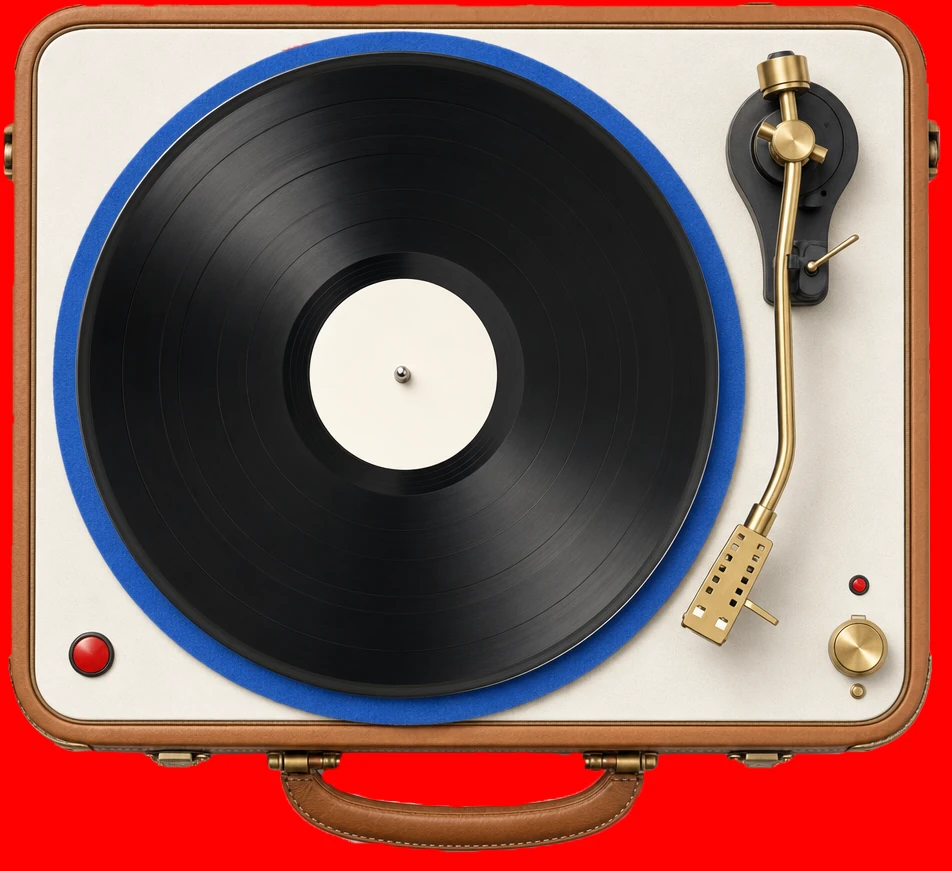
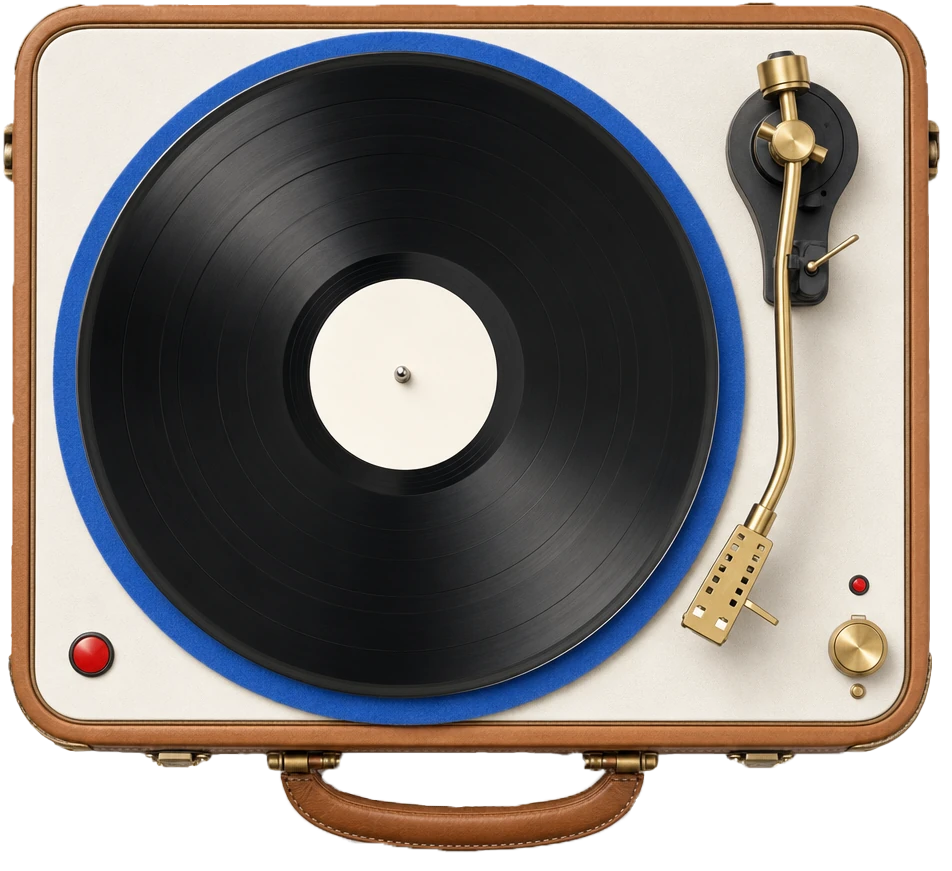
Fix mobile layout for watch roll, corkboard, laptop stickers, passport
- Watch roll: watches scale with the viewport on mobile so they sit inside
  the velvet slots instead of overflowing the cushions
- Corkboard: on mobile the framed landscape asset is too short for stacked
  cards, so the cork now fills a board that grows with them; the updated
  stamp moves inline below the cards
- Laptop stickers: smaller stickers and crest decal on mobile so they stay
  on the lid
- Passport: keep the spread landscape (two columns) on mobile and scale the
  crest, text and stamps down, instead of cropping it into a broken portrait
- Swap in the corrected vinyl player art (proper keying, no red background)
- Bold the essay title in the blog preamble

Claude-Session: https://claude.ai/code/session_019EimKuCz9ybaspSnoTAJrp

Changed region(s): [[0.0, 0.0, 1.0, 1.0]]

diff --git a/components/sections/corkboard-now.tsx b/components/sections/corkboard-now.tsx
@@ -114,9 +114,18 @@ export function CorkboardNow() {
   );
 
   // The ink stamp — knocked out on a cream chip so it reads clearly on cork.
+  const stampClass =
+    "pointer-events-none inline-block -rotate-6 rounded-md border-[2.5px] border-[#c40000] bg-[#f7efe0]/90 px-2.5 py-1 font-sans text-[10px] font-extrabold tracking-[0.2em] text-[#c40000] uppercase shadow-sm sm:text-[11px]";
+  // Absolute, tucked in the corner for the framed desktop board.
   const stamp = (
-    <p className="pointer-events-none absolute right-4 bottom-7 -rotate-6 rounded-md border-[2.5px] border-[#c40000] bg-[#f7efe0]/90 px-2.5 py-1 font-sans text-[10px] font-extrabold tracking-[0.2em] text-[#c40000] uppercase shadow-sm sm:right-6 sm:bottom-9 sm:text-[11px]">
+    <p className={`absolute right-4 bottom-7 sm:right-6 sm:bottom-9 ${stampClass}`}>
       updated {NOW.updated}
+    </p>
+  );
+  // Inline, sits after the cards on the flowing mobile board.
+  const stampInline = (
+    <p className="mt-6 flex justify-end">
+      <span className={stampClass}>updated {NOW.updated}</span>
     </p>
   );
 
@@ -128,20 +137,40 @@ export function CorkboardNow() {
     >
       <Reveal>
         {corkSrc ? (
-          // The framed cork asset sits directly on the section, no card behind.
-          <div className="relative mx-auto w-full max-w-4xl">
-            {/* eslint-disable-next-line @next/next/no-img-element */}
-            <img
-              src={corkSrc}
-              alt=""
-              loading="lazy"
-              className="pointer-events-none block w-full select-none"
-            />
-            {/* content area, inset to sit inside the wooden frame on the cork */}
-            <div className="absolute inset-x-[6%] inset-y-[8%] flex flex-col justify-center">
-              {cards}              {stamp}
+          <>
+            {/* Desktop: the framed cork asset sizes the board and the four
+                cards sit in a row inside its wooden frame. */}
+            <div className="relative mx-auto hidden w-full max-w-4xl lg:block">
+              {/* eslint-disable-next-line @next/next/no-img-element */}
+              <img
+                src={corkSrc}
+                alt=""
+                loading="lazy"
+                className="pointer-events-none block w-full select-none"
+              />
+              <div className="absolute inset-x-[6%] inset-y-[8%] flex flex-col justify-center">
+                {cards}
+                {stamp}
+              </div>
             </div>
-          </div>
+            {/* Mobile/tablet: the framed landscape asset is too short to hold
+                readable stacked cards, so the cork fills a board that grows
+                with the cards (object-cover crops the frame, texture stays). */}
+            <div className="relative mx-auto w-full max-w-xl overflow-hidden rounded-2xl shadow-(--shadow-lift) lg:hidden">
+              {/* eslint-disable-next-line @next/next/no-img-element */}
+              <img
+                src={corkSrc}
+                alt=""
+                aria-hidden
+                loading="lazy"
+                className="pointer-events-none absolute inset-0 size-full select-none object-cover"
+              />
+              <div className="relative px-5 py-8 sm:px-8 sm:py-10">
+                {cards}
+                {stampInline}
+              </div>
+            </div>
+          </>
         ) : (
           // CSS fallback: hand-built wooden frame + cork texture.
           <div className="relative mx-auto w-full max-w-4xl rounded-2xl bg-[linear-gradient(160deg,#7a5636,#583b20)] p-2.5 shadow-[0_18px_44px_rgb(0_0_0/0.28)] sm:p-3 dark:shadow-[0_18px_44px_rgb(0_0_0/0.6)]">

diff --git a/components/sections/passport.tsx b/components/sections/passport.tsx
@@ -58,10 +58,10 @@ function InkStamp({ stamp, index }: { stamp: Stamp; index: number }) {
     >
       {aiSrc ? (
         // eslint-disable-next-line @next/next/no-img-element
-        <img src={aiSrc} alt="" loading="lazy" className="size-24 object-contain sm:size-28" />
+        <img src={aiSrc} alt="" loading="lazy" className="size-14 object-contain sm:size-28" />
       ) : (
       <div
-        className={`grid size-24 place-items-center border-[3px] p-1 sm:size-28 ${
+        className={`grid size-14 place-items-center border-[3px] p-1 sm:size-28 ${
           circle ? "rounded-full" : "rounded-lg"
         }`}
         style={{ borderColor: ink, color: ink }}
@@ -101,7 +101,7 @@ function WaxSeal() {
       whileHover={reduce ? undefined : { scale: 0.95 }}
       transition={springs.bouncy}
       style={{ rotate: -12 }}
-      className="relative grid size-24 place-items-center sm:size-28"
+      className="relative grid size-16 place-items-center sm:size-28"
       role="img"
       aria-label="The Yawe wax seal, gold, with an SY monogram"
     >
@@ -210,7 +210,7 @@ export function Passport() {
             spreadSrc ? "" : "bg-night p-2.5 pb-4 sm:p-3 sm:pb-5"
           }`}
         >
-          <div className={`grid overflow-hidden rounded-[1.1rem] sm:grid-cols-2 ${spreadSrc ? "relative" : ""}`}>
+          <div className={`grid grid-cols-2 overflow-hidden rounded-[1.1rem] ${spreadSrc ? "relative" : ""}`}>
             {spreadSrc && (
               // eslint-disable-next-line @next/next/no-img-element
               <img
@@ -222,35 +222,35 @@ export function Passport() {
             )}
             {/* left page: the crest in gold foil */}
             <div
-              className="relative flex flex-col items-center justify-center gap-5 px-6 py-12"
+              className="relative flex flex-col items-center justify-center gap-2 px-2 py-6 sm:gap-5 sm:px-6 sm:py-12"
               style={{ background: spreadSrc ? "transparent" : LEFT_PAGE }}
             >
               {/* eslint-disable-next-line @next/next/no-img-element */}
               <img
                 src="/brand/crest-badge.svg"
                 alt="Yawe family crest, embossed as a gold foil stamp"
-                className="w-24 opacity-50 mix-blend-multiply sm:w-28"
+                className="w-14 opacity-50 mix-blend-multiply sm:w-28"
                 style={{ filter: GOLD_FOIL }}
               />
               <div className="text-center">
-                <p className="font-heraldic text-base tracking-[0.45em] text-[#8a6d03] sm:text-lg">
+                <p className="font-heraldic text-[10px] tracking-[0.3em] text-[#8a6d03] sm:text-lg sm:tracking-[0.45em]">
                   PASSPORT
                 </p>
                 {/* eslint-disable-next-line @next/next/no-img-element */}
                 <img
                   src="/brand/signature-black.png"
                   alt="Sipho Yawe signature"
-                  className="mx-auto mt-3 h-9 w-auto opacity-90 mix-blend-multiply"
+                  className="mx-auto mt-1.5 h-5 w-auto opacity-90 mix-blend-multiply sm:mt-3 sm:h-9"
                 />
               </div>
             </div>
 
             {/* right page: travel stamps plus the wax seal */}
             <div
-              className={`px-5 py-8 sm:py-10 ${spreadSrc ? "relative" : ""}`}
+              className={`px-2 py-5 sm:px-5 sm:py-10 ${spreadSrc ? "relative" : ""}`}
               style={{ background: spreadSrc ? "transparent" : RIGHT_PAGE }}
             >
-              <div className="grid grid-cols-2 justify-items-center gap-3 sm:gap-4">
+              <div className="grid grid-cols-2 justify-items-center gap-1.5 sm:gap-4">
                 {STAMPS.map((stamp, i) => (
                   <InkStamp key={stamp.id} stamp={stamp} index={i} />
                 ))}

diff --git a/components/sections/watches.tsx b/components/sections/watches.tsx
@@ -45,12 +45,14 @@ function WatchPiece({ watch, slotX, index = 0 }: { watch: Watch; slotX?: string;
       }
       style={slotX ? { left: slotX, top: "30%" } : undefined}
     >
-      {/* the watch seated in its slot on the leather */}
-      <div className="relative flex h-44 w-full items-center justify-center sm:h-48">
+      {/* the watch seated in its slot on the leather. On mobile the roll is
+          narrower, so the watch scales with the viewport (vw) to stay inside
+          its velvet slot; from sm up it settles to a fixed height. */}
+      <div className="relative flex h-[30vw] w-full items-center justify-center sm:h-44 md:h-48">
         {/* soft contact shadow on the leather */}
         <span
           aria-hidden
-          className="absolute bottom-4 h-3.5 w-24 rounded-[50%] bg-black/45 blur-md"
+          className="absolute bottom-2 h-3 w-16 rounded-[50%] bg-black/45 blur-md sm:bottom-4 sm:h-3.5 sm:w-24"
         />
         {showImg ? (
           <motion.div
@@ -64,7 +66,7 @@ function WatchPiece({ watch, slotX, index = 0 }: { watch: Watch; slotX?: string;
               alt={`${watch.brand} ${watch.model}`}
               loading="lazy"
               onError={() => setImgError(true)}
-              className="h-40 w-auto object-contain drop-shadow-[0_10px_14px_rgb(0_0_0/0.5)] sm:h-44"
+              className="h-[25vw] w-auto object-contain drop-shadow-[0_10px_14px_rgb(0_0_0/0.5)] sm:h-40 md:h-44"
             />
           </motion.div>
         ) : (

diff --git a/components/sections/sticker-laptop.tsx b/components/sections/sticker-laptop.tsx
@@ -104,13 +104,13 @@ function Sticker({ sticker, index }: { sticker: LaptopSticker; index: number }) 
               loading="lazy"
               className={
                 sticker.big
-                  ? "block h-16 w-auto max-w-[10rem] object-contain sm:h-20 sm:max-w-[12.5rem]"
-                  : "block h-10 w-auto max-w-[6.5rem] object-contain sm:h-12 sm:max-w-[7.5rem]"
+                  ? "block h-11 w-auto max-w-[7rem] object-contain sm:h-20 sm:max-w-[12.5rem]"
+                  : "block h-7 w-auto max-w-[4.5rem] object-contain sm:h-12 sm:max-w-[7.5rem]"
               }
             />
           ) : (
             <span
-              className={`block px-3.5 py-1.5 font-display text-xs font-semibold tracking-wide whitespace-nowrap sm:text-sm ${round}`}
+              className={`block px-2.5 py-1 font-display text-[10px] font-semibold tracking-wide whitespace-nowrap sm:px-3.5 sm:py-1.5 sm:text-sm ${round}`}
               style={{
                 background: `radial-gradient(circle at 30% 20%, rgb(255 255 255 / 0.5), transparent 52%), ${face}`,
                 color: ink,
@@ -186,7 +186,7 @@ export function StickerLaptop() {
                   alt=""
                   aria-hidden
                   loading="lazy"
-                  className="absolute top-[62%] left-[70%] h-16 w-auto -translate-x-1/2 -translate-y-1/2 -rotate-6 drop-shadow-[0_1px_1px_rgb(0_0_0/0.3)] sm:h-20"
+                  className="absolute top-[62%] left-[70%] h-11 w-auto -translate-x-1/2 -translate-y-1/2 -rotate-6 drop-shadow-[0_1px_1px_rgb(0_0_0/0.3)] sm:h-20"
                 />
               )}
               <ul className="absolute inset-0 grid grid-cols-4 grid-rows-3 p-6 sm:p-9">